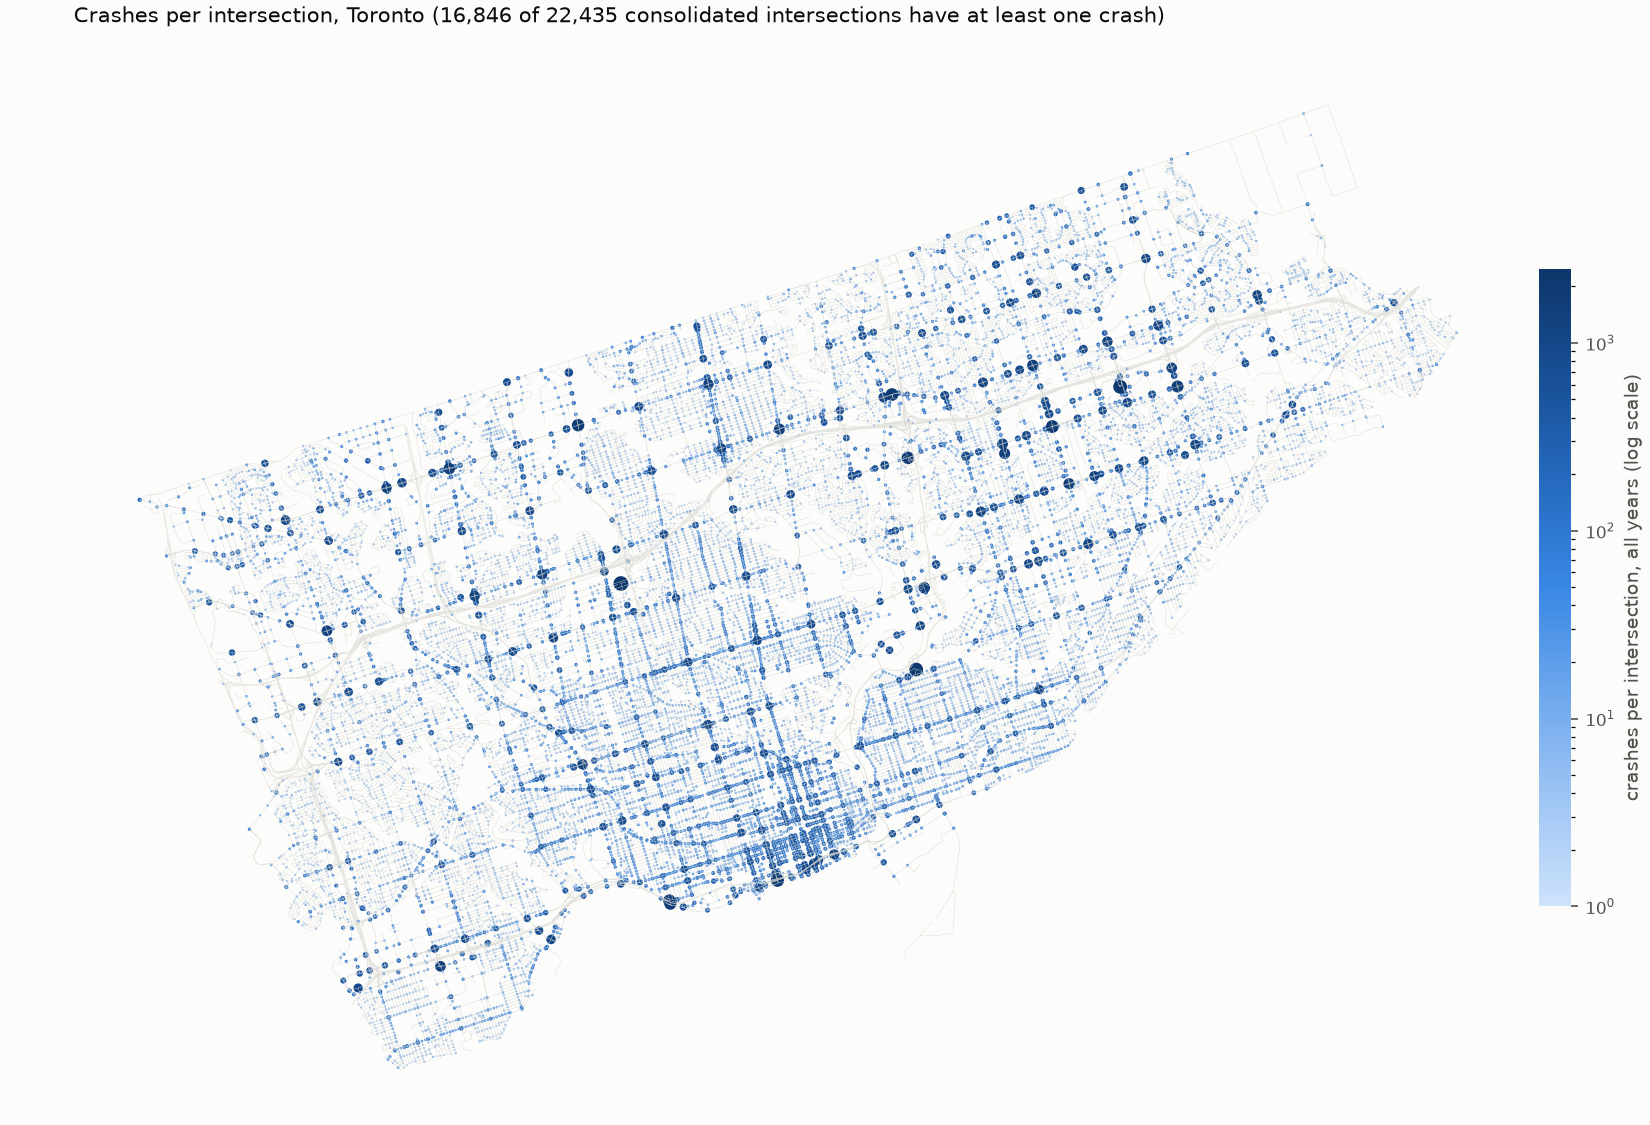
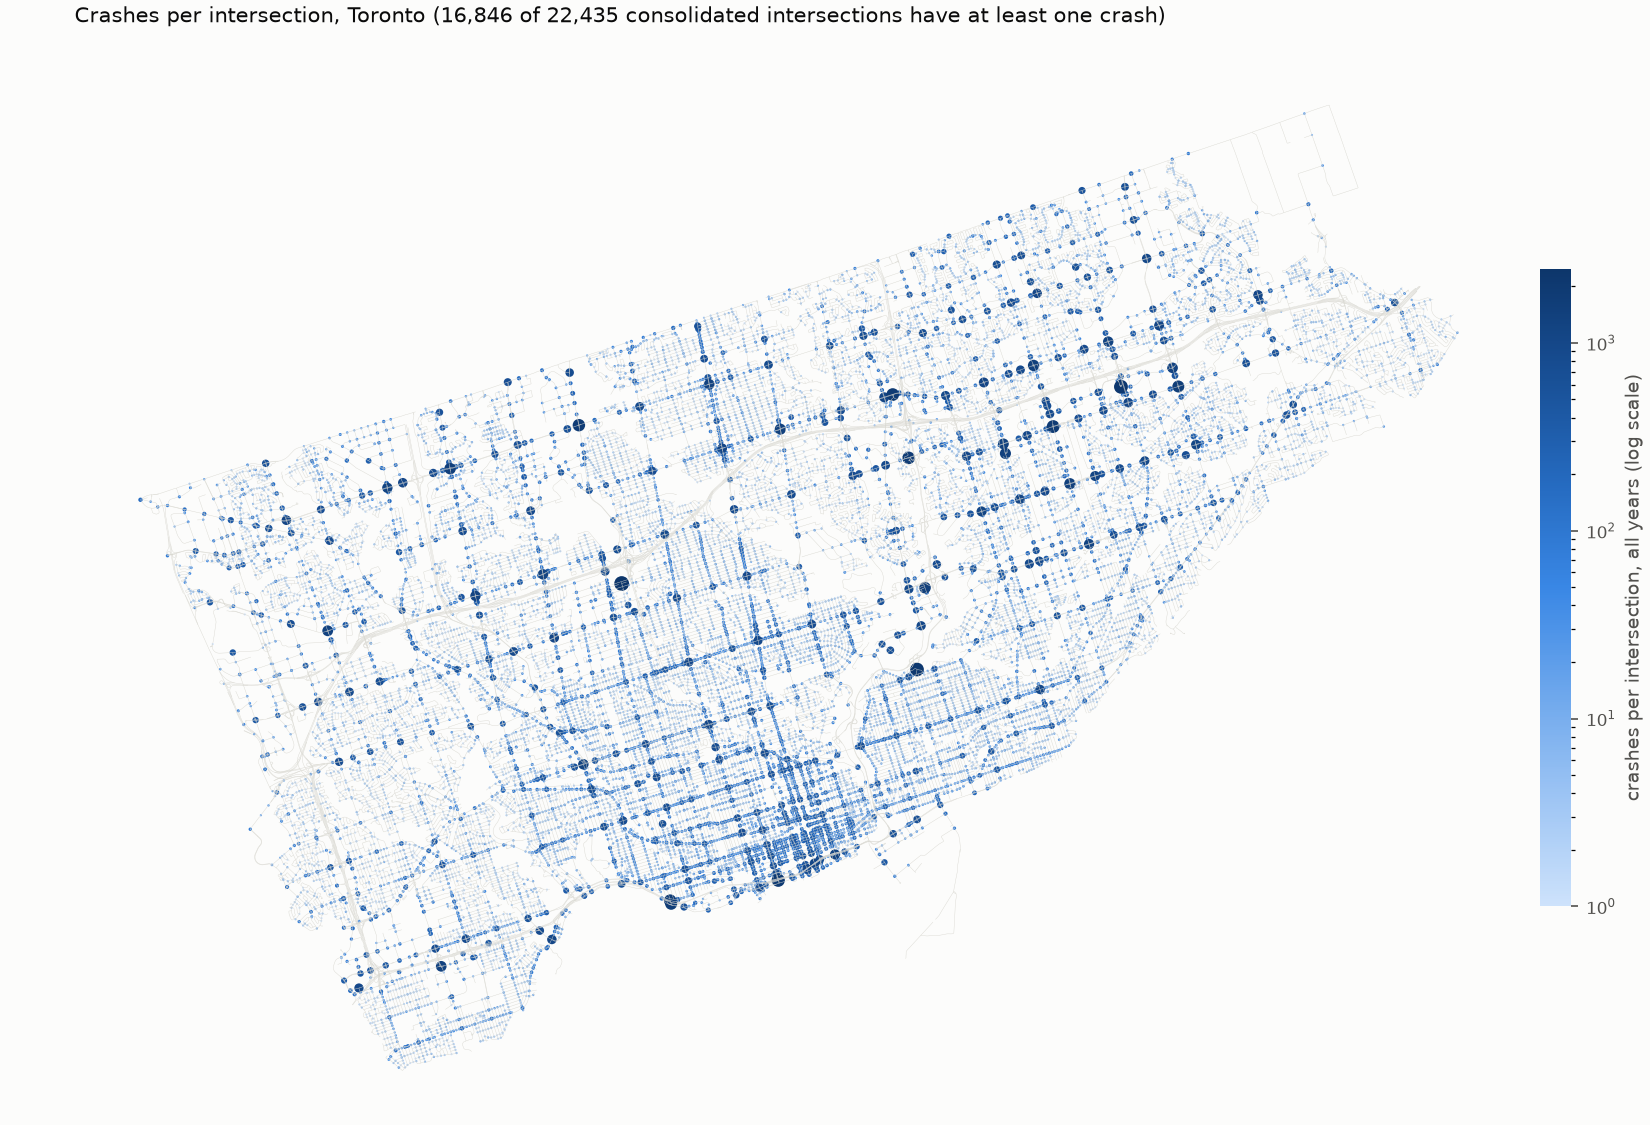
Use stable sorting so the intersection crash map renders deterministically

diff --git a/src/safepath/snap_report.py b/src/safepath/snap_report.py
@@ -51,12 +51,12 @@ def intersection_stats(
     out["flag_retail_proxy"] = busy & (out["pct_severe"] < 6) & (out["pct_ftr"] > 20)
     # Expressway proxy: busy minor-road intersection within 300 m of a motorway.
     out["flag_expressway_proxy"] = busy & out["minor_roads_only"] & (out["dist_motorway"] <= 300)
-    return out.sort_values("crashes", ascending=False)
+    return out.sort_index().sort_values("crashes", ascending=False, kind="stable")
 
 
 def plot_intersection_map(stats: gpd.GeoDataFrame, segments: gpd.GeoDataFrame, path: Path) -> None:
     cmap = LinearSegmentedColormap.from_list("seq_blue", SEQ_BLUE)
-    hit = stats[stats["crashes"] > 0].sort_values("crashes")
+    hit = stats[stats["crashes"] > 0].sort_index().sort_values("crashes", kind="stable")
     fig, ax = plt.subplots(figsize=(11, 7.5), facecolor=SURFACE, layout="constrained")
     ax.set_facecolor(SURFACE)
     segments.plot(ax=ax, color="#d9d8d1", linewidth=0.2)

diff --git a/reports/snapping_report.md b/reports/snapping_report.md
@@ -90,7 +90,7 @@ Rank of the first intersection whose street names contain each arterial.
 | Dundas | 86 | 1 | 14 | 242 |
 | Eglinton | 28 | 9 | 39 | 254 |
 | Finch | 8 | 12 | 42 | 239 |
-| Steeles | 117 | 0 | 4 | 217 |
+| Steeles | 116 | 0 | 4 | 217 |
 | Sheppard | 6 | 16 | 31 | 206 |
 | Lawrence | 15 | 12 | 33 | 288 |
 
